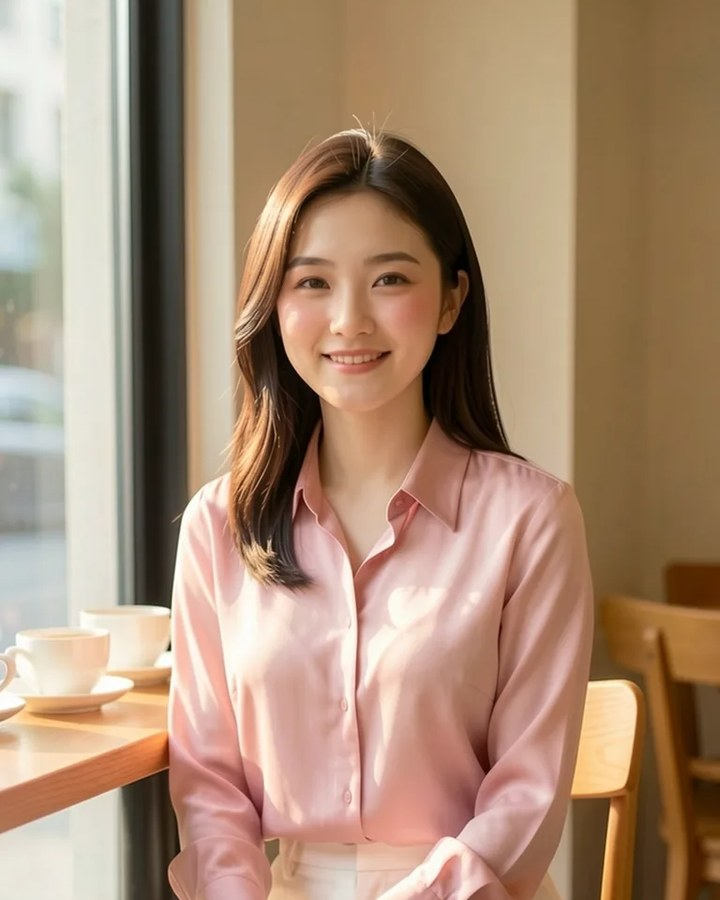
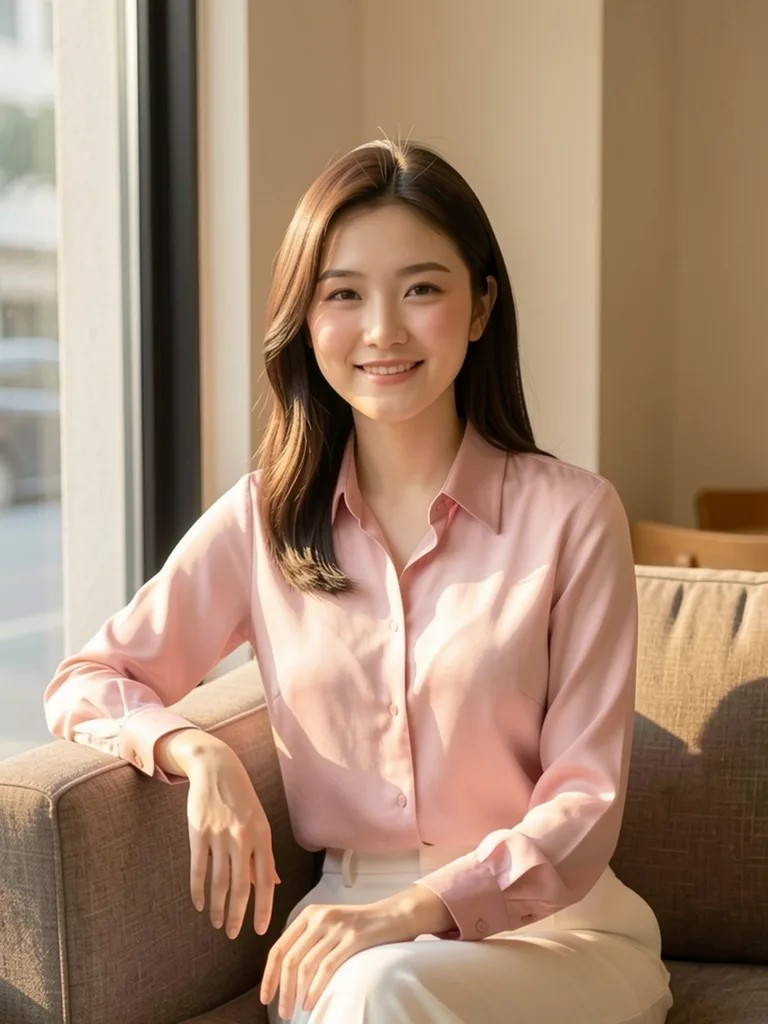
Fix hero before/after cropping so full heads stay visible.
Use uncropped 3:4 frames, object-fit cover at natural ratio, and wider mobile cards instead of tight 4:5 top-crops.

diff --git a/index.html b/index.html
@@ -742,25 +742,28 @@
         .hero-ba {
             display: grid;
             grid-template-columns: 1fr auto 1fr;
-            gap: 14px;
+            gap: 16px;
             align-items: center;
-            max-width: 560px;
+            max-width: 640px;
             margin: 8px auto 28px;
+            padding: 0 8px;
         }
         .hero-ba__card {
             position: relative;
             border-radius: 20px;
             overflow: hidden;
             border: 1px solid var(--border-chrome);
-            background: var(--bg-elevated);
+            background: #0E0E10;
             box-shadow: 0 18px 40px -28px rgba(243, 199, 190, 0.35);
         }
         .hero-ba__card img {
             display: block;
             width: 100%;
-            aspect-ratio: 4 / 5;
+            height: auto;
+            aspect-ratio: 3 / 4;
             object-fit: cover;
-            object-position: center top;
+            object-position: center 18%;
+            background: #0E0E10;
         }
         .hero-ba__label {
             position: absolute;
@@ -773,6 +776,7 @@
             letter-spacing: 0.02em;
             color: #050506;
             background: rgba(247, 213, 206, 0.92);
+            z-index: 1;
         }
         .hero-ba__arrow {
             font-family: var(--font-display);
@@ -808,13 +812,23 @@
             margin-right: auto;
         }
         @media (max-width: 768px) {
-            .hero-ba { max-width: 420px; gap: 10px; }
+            .hero-ba { max-width: 520px; gap: 12px; }
             .hero-ba__arrow { font-size: 1.25rem; }
             .note-grid--trust { grid-template-columns: 1fr; }
         }
         @media (max-width: 480px) {
-            .hero-ba { grid-template-columns: 1fr; gap: 8px; max-width: 260px; }
-            .hero-ba__arrow { transform: rotate(90deg); justify-self: center; }
+            /* Keep side-by-side but give each portrait enough width so heads aren't cropped */
+            .hero-ba {
+                grid-template-columns: 1fr auto 1fr;
+                gap: 8px;
+                max-width: 100%;
+                padding: 0 4px;
+            }
+            .hero-ba__arrow {
+                transform: none;
+                font-size: 1.1rem;
+            }
+            .hero-ba__card { border-radius: 16px; }
         }
 
         /* 일본어는 띄어쓰기가 없으므로 강제 줄바꿈 허용 */
@@ -850,12 +864,12 @@
                 <h1 data-i18n-key="hero.title">Meet the you<br><span class="highlight">you’ve never photographed</span></h1>
                 <div class="hero-ba" aria-hidden="false">
                     <div class="hero-ba__card">
-                        <img src="./myme_Design Asset/studio/before_after/hero_before.jpg" alt="Selfie before" data-i18n-alt-key="hero.ba.before.alt" width="720" height="900" loading="eager">
+                        <img src="./myme_Design Asset/studio/before_after/hero_before.jpg" alt="Selfie before" data-i18n-alt-key="hero.ba.before.alt" width="768" height="1024" loading="eager">
                         <span class="hero-ba__label" data-i18n-key="hero.ba.before">Selfie</span>
                     </div>
                     <div class="hero-ba__arrow" aria-hidden="true">→</div>
                     <div class="hero-ba__card">
-                        <img src="./myme_Design Asset/studio/before_after/hero_after.jpg" alt="Profile A-cut after" data-i18n-alt-key="hero.ba.after.alt" width="720" height="900" loading="eager">
+                        <img src="./myme_Design Asset/studio/before_after/hero_after.jpg" alt="Profile A-cut after" data-i18n-alt-key="hero.ba.after.alt" width="768" height="1024" loading="eager">
                         <span class="hero-ba__label" data-i18n-key="hero.ba.after">A-cut</span>
                     </div>
                 </div>
